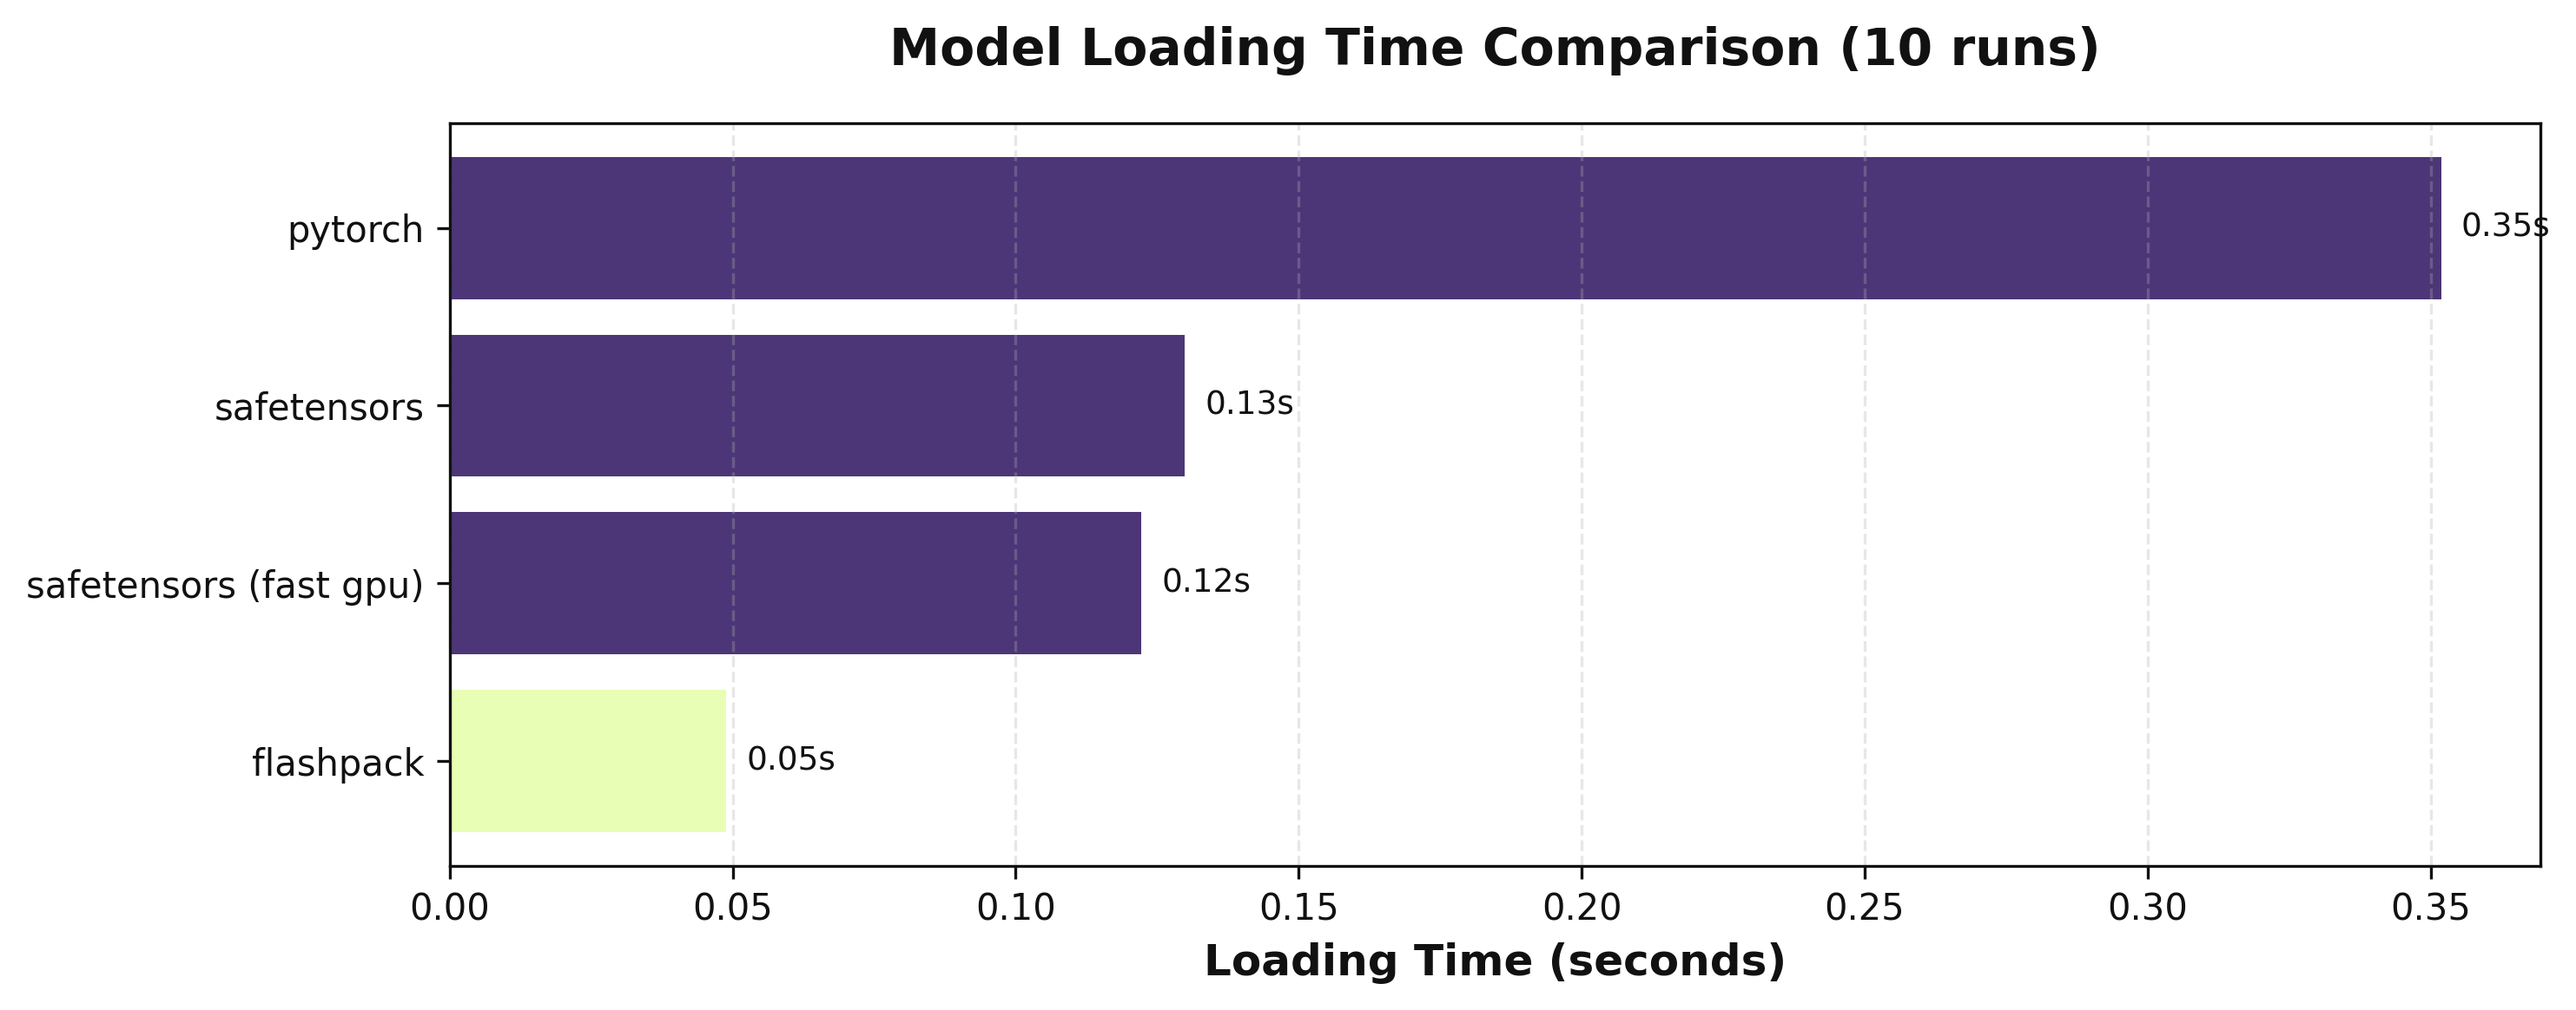
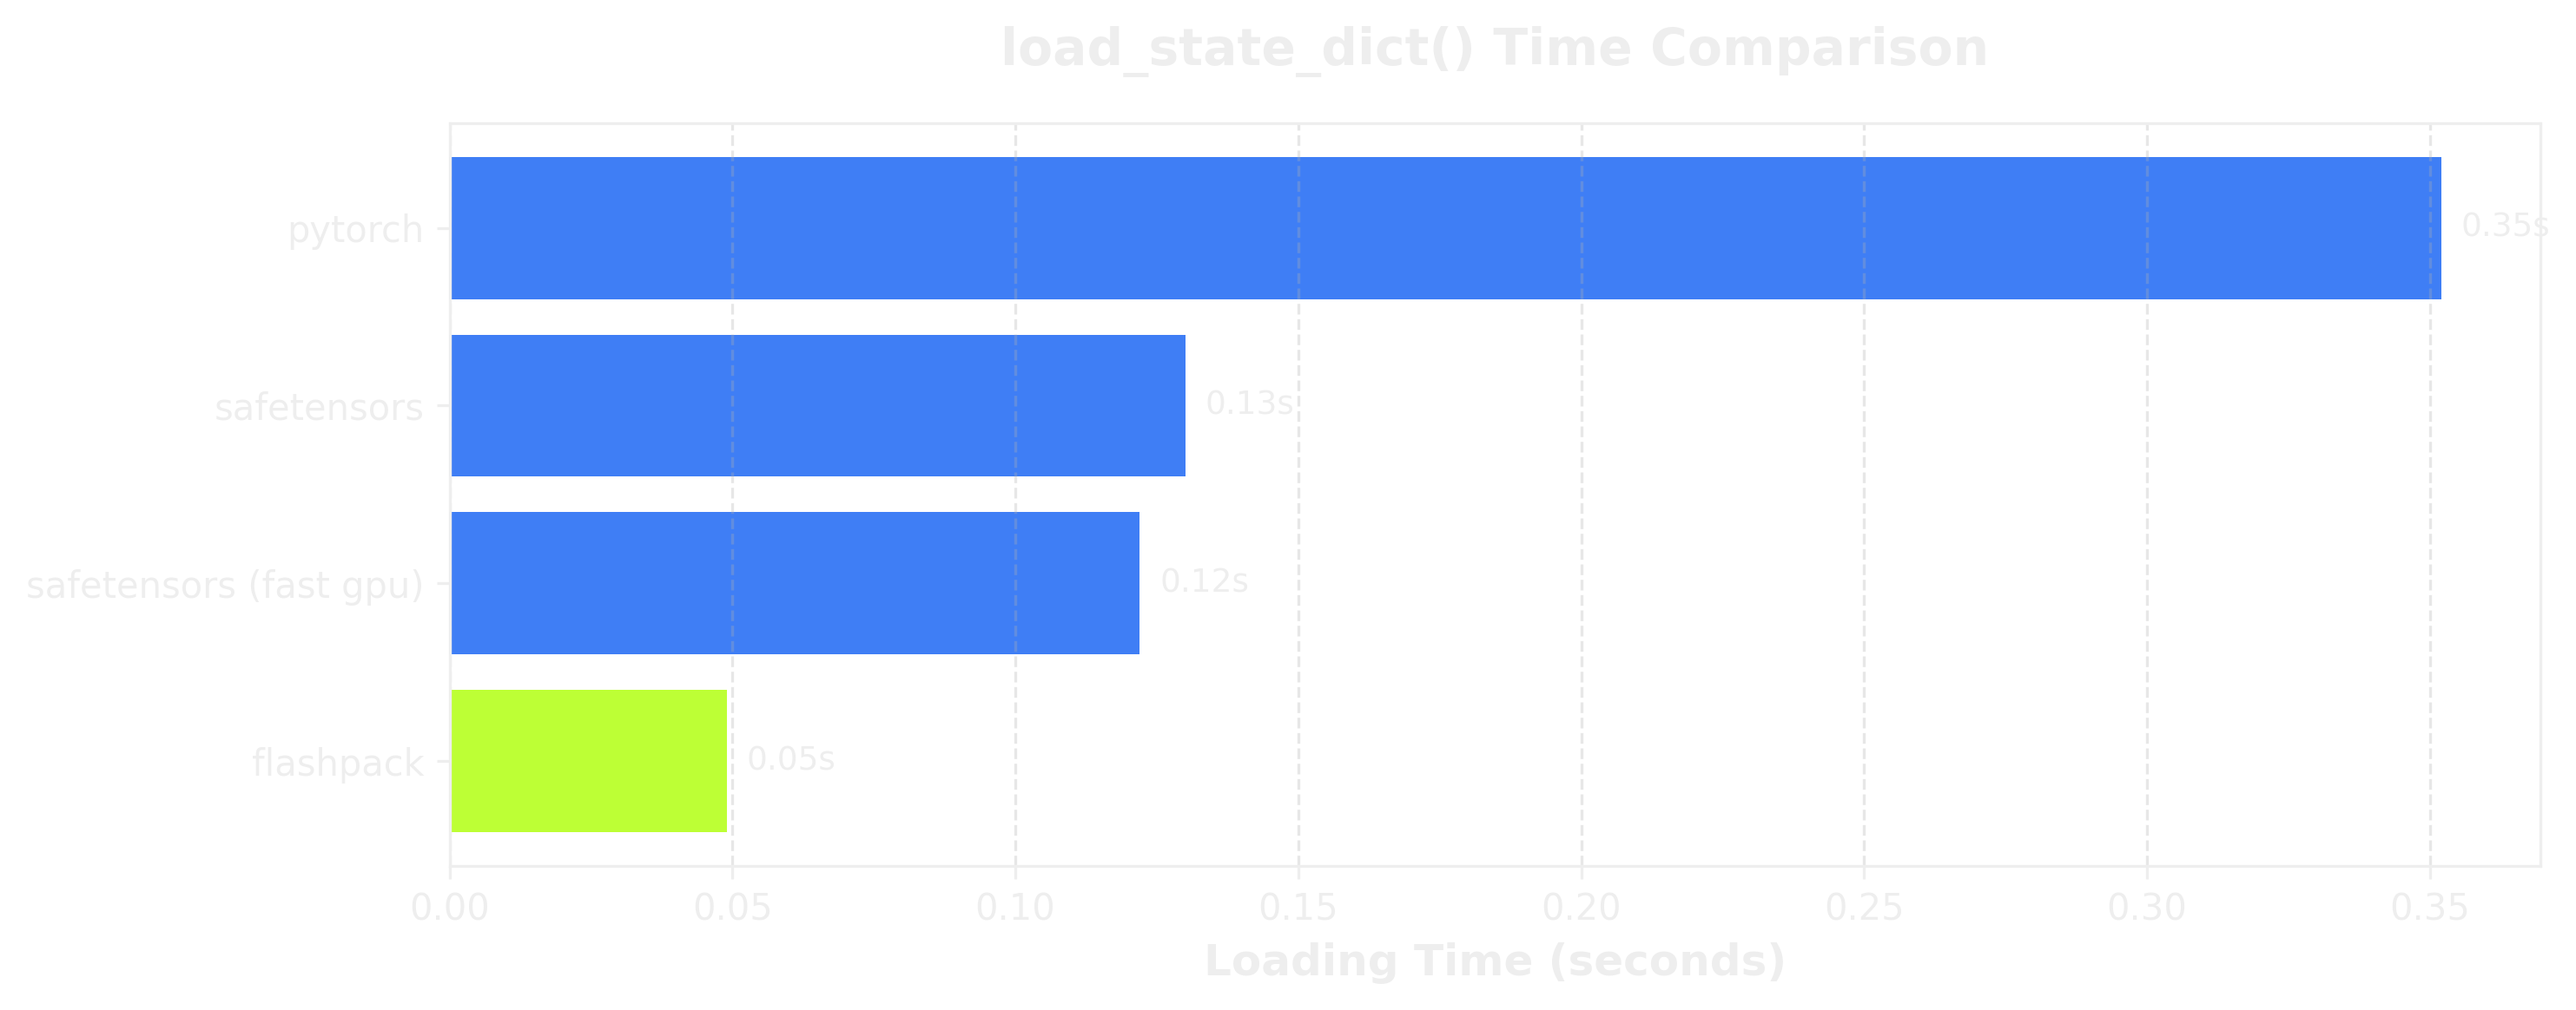
remove override, use correct colors

diff --git a/tests/test_speed_comparison.py b/tests/test_speed_comparison.py
@@ -75,8 +75,8 @@ print(f"  safetensors (fast gpu): {np.mean(times_sf_fast):.3f}")
 print(f"  flashpack: {np.mean(times_fp):.3f}")
 
 # Plot configuration (aligned with scripts/plot-benchmark.py)
-accelerate_color = "#1f0455"
-flashpack_color = "#e2fea1"
+accelerate_color = "#0f5ef3"
+flashpack_color = "#adff02"
 label_color = "#eeeeee"
 
 labels = [
@@ -120,7 +120,7 @@ ax.invert_yaxis()  # top-to-bottom order as specified
 
 ax.set_xlabel("Loading Time (seconds)", fontsize=12, fontweight="bold", color=label_color)
 ax.set_title(
-    "Model Loading Time Comparison (10 runs)",
+    "load_state_dict() Time Comparison",
     fontsize=14,
     fontweight="bold",
     pad=16,
